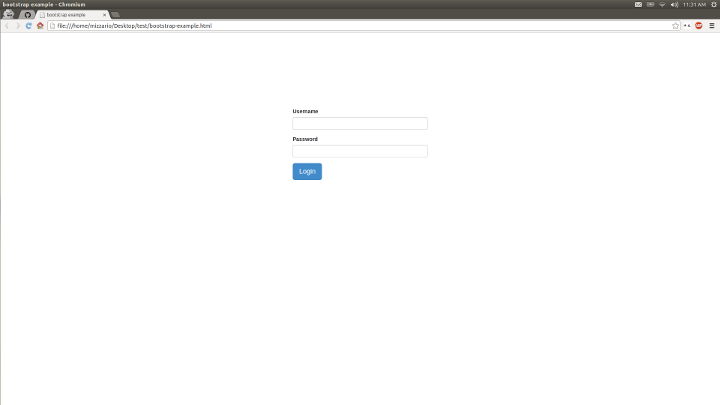
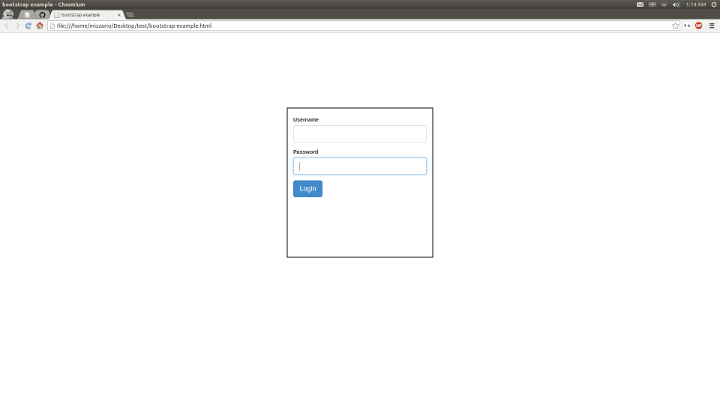
added basic layout page

diff --git a/views/06-create-webpage.html b/views/06-create-webpage.html
@@ -11,7 +11,7 @@
 			</li>
 			<li>
 				<div class="message">
-					<p>Use a mockup as guideline to create a webpage</p>
+					<p>Create a webpage from mockup</p>
 				</div>
 			</li>
 		</ul>
@@ -47,7 +47,10 @@
 					<li>Don't spend too much time on CSS styling until after the HTMl content has been written</li>
 					<li>After the major elements are in place, then start tinkering with styling</li>
 				</ul>
-				<p>Good luck and take your time.&nbsp;&nbsp;You can also try some pair programming and work on this collaboratively with another student.&nbsp;&nbsp;If you get stuck, try researching the answer online first before you ask a TA/teacher for help.<br><br>A working example of the mockup can be viewed <a target="_blank" href="webpage.html">here</a>.</p>
+
+				<p>
+					The following pages will give a step-by-step tutorial on creating the website.&nbsp;&nbsp;However, I encourage you to try and create the website on your own first and if you get stuck, then refer back to this lesson plan for help.<br><br>Good luck and take your time.&nbsp;&nbsp;You can also try some pair programming and work on this collaboratively with another student.&nbsp;&nbsp;If you get stuck, try researching the answer online first before you ask a TA/teacher for help.<br><br>A working example of the mockup can be viewed <a target="_blank" href="webpage.html">here</a>.
+				</p>
 			</div>
 		</blockquote>				
 	</section>
@@ -67,11 +70,6 @@
 		</blockquote>
 	</section>
 -->
-
-
-
-
-
 	<section class="step next_step">
 		<h1>Next Step:</h1>
 		<p>The next section will have links to helpful websites for web development.</p>

diff --git a/js/controller.js b/js/controller.js
@@ -20,7 +20,9 @@ angular.module("allControllers", [])
 					case '/grid-system':
 						return 'home.gridSystem';
 					case '/create-webpage':
-						return 'home.createWebpage';						
+						return 'home.createWebpage';
+					case '/basic-layout':
+						return 'home.basicLayout';											
 					case '/resources':
 						return 'home.resources';							
 					default:
@@ -63,6 +65,10 @@ angular.module("allControllers", [])
 				"title": "Create Webpage",
 				"state":	"home.createWebpage"
 			},
+			{ 
+				"title": "Basic Layout",
+				"state":	"home.basicLayout"
+			},			
 			{ 
 				"title": "Resources",
 				"state":	"home.resources"

diff --git a/js/app.js b/js/app.js
@@ -49,12 +49,11 @@ angular.module("introToBootstrapApp", [
 				url: '/create-webpage',
 				templateUrl: 'views/06-create-webpage.html'
 			})
-/*			
-			.state('home.headerContent', {
-				url: '/header-content',
-				templateUrl: 'views/07-header-content.html'
-			})			
-*/ 
+			.state('home.basicLayout', {
+				url: '/basic-layout',
+				templateUrl: 'views/07-basic-layout.html'
+			})
+			
 			.state('home.resources', {
 				url: '/resources',
 				templateUrl: 'views/11-resources.html'

diff --git a/views/07-basic-layout.html b/views/07-basic-layout.html
@@ -1,0 +1,22 @@
+<h1 class="doc_title">Basic Layout</h1>
+
+<div class="doc">
+	<section class="goals">
+		<h1>Goals</h1>
+		<ul>
+			<li>
+				<div class="message">
+					<p>Identify general areas of website</p>
+				</div>
+			</li>
+			<li>
+				<div class="message">
+					<p>Write skeleton HTML code</p>
+				</div>
+			</li>
+		</ul>
+	</section>
+	<section class="overview">
+		<h1>Overview</h1>
+		<blockquote>
+			<div class="message">

diff --git a/README.md b/README.md
@@ -1,1 +1,4 @@
+intro-to-bootstrap
+==================
+
 introductory curriculum to bootstrap for railsbridge
